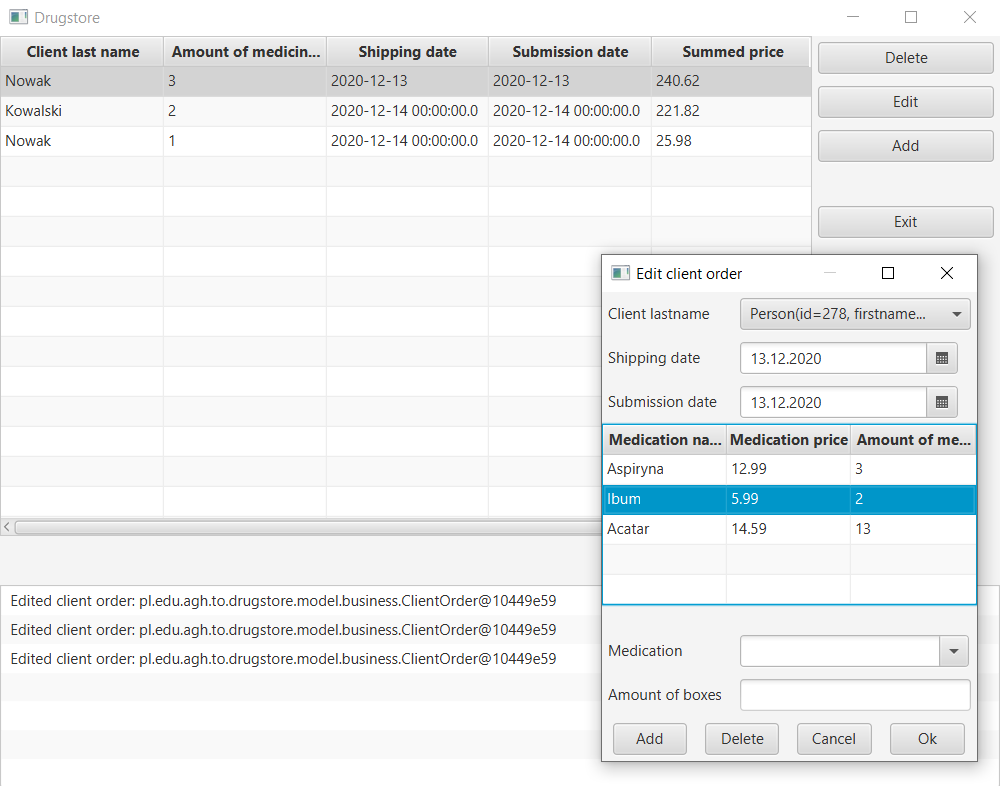
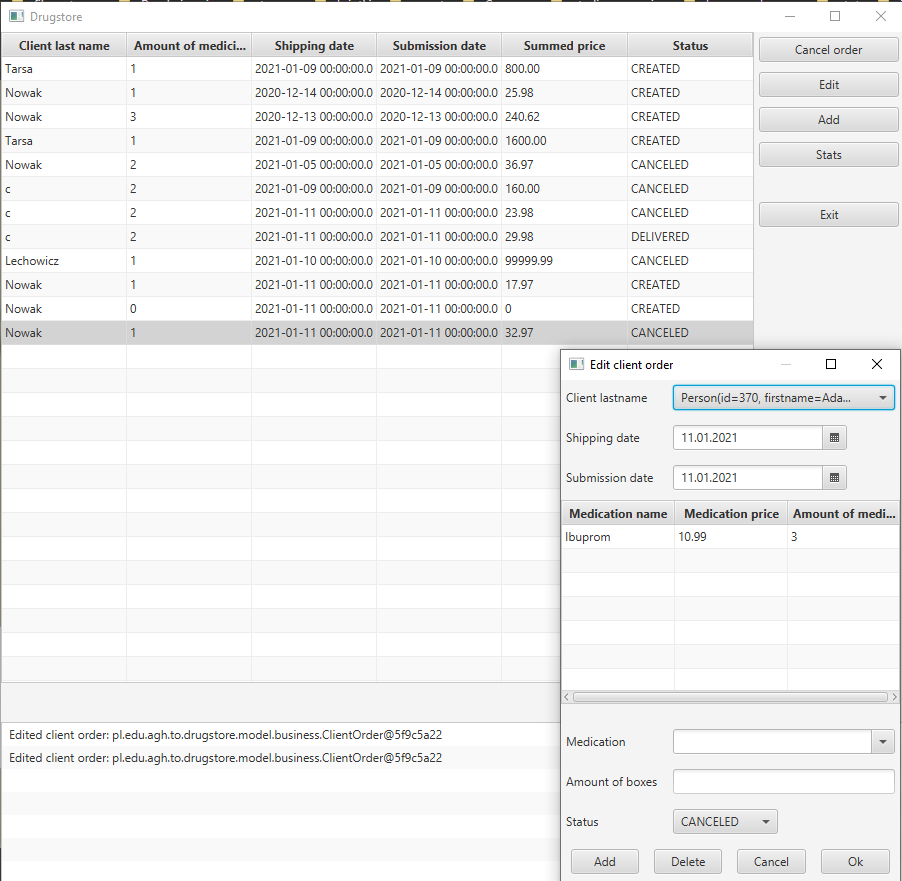
Improve and update docs

Changed region(s): [[0.0, 0.0, 1.0, 1.0], [0.0, 0.7328, 0.5588, 0.8855], [0.9623, 0.0, 0.9933, 0.0305]]

diff --git a/docs/m3/m3_12_01.md b/docs/m3/m3_12_01.md
@@ -46,10 +46,10 @@ wzorzec command w celu zarządzania operacjami w GUI.
 
 | Wiktor                                                  | Przemysław                                               | Paweł                                                        | Radosław                                                          |
 | :-------------------------------------------------      | :------------------------------------------------------- | :----------------------------------------------------------- | :---------------------------------------------------------------- |
-| Poprawa interfejsów, dodanie nowych klas abstrakcyjnych | Dodanie klas GUI wyświetlające użytkowników i lekarstwa  | Uzupełnienie modelu o dostawców i zamówienia                 | Stworzenie GUI dla ClientOrder                                    |
-| Dodanie marginesów w aplikacji                          | Dodanie okna logowania i rejestracji użytkowników        | Dodanie brakujących DAO oraz refaktoryzacja już istniejących | Stworzenie abstrakcyjnych klas dla implementacji wzorca command   |
-| Zmiany w widokach ułatwiające korzystanie z aplikacji   | Dodanie panelu administracyjnego                         | Dodanie do dokumentacji przykładowych widoków GUI            | Dodanie do dokumentacji opisów fragmentów GUI                     |
-|                                                         |                                                          |                                                              | Refaktoryzacja kodu                                               | 
+| Poprawa interfejsów, dodanie nowych klas abstrakcyjnych | Dodanie klas GUI wyświetlające użytkowników i lekarstwa  | Uzupełnienie modelu o dostawców i zamówienia                 | Stworzenie GUI dla wyświetlania statystyk                                  |
+| Dodanie marginesów w aplikacji                          | Dodanie okna logowania i rejestracji użytkowników        | Dodanie brakujących DAO oraz refaktoryzacja już istniejących | Stworzenie części kodu odpowiedzialnej za wyliczanie statystyk   |
+| Zmiany w widokach ułatwiające korzystanie z aplikacji   | Dodanie panelu administracyjnego                         | Dodanie do dokumentacji przykładowych widoków GUI            | Uzupełnienie dokumentacji o screeny                   |
+|                                                         |                                                          |                                                              |                                                                   | 
 
 #### Opis fragmentów GUI
 
@@ -81,6 +81,7 @@ odpowiednią inicjalizację. W tym oknie wyświetla się lista zamówień klient
 <ul>Modyfikacji zaznaczonego zamówienia klienta</ul>
 <ul>Dodania zamówienia </ul>
 <ul>Powrotu do głównego okna aplikacji</ul>
+<ul>Zobaczenie statystyk zamówień</ul>
 
 Po naciśnięciu przycisku odpowiadającego za dodanie zamówienia lub modyfikacji wybranego zamówienia wyświetla się nam
 nowe okno. Za to okno odpowiada klasa ClientOrderEditDialogPresenter. W tym oknie możemy:
@@ -94,6 +95,7 @@ Lek któy chcemy dodać możemy wybrać z listy, lub przefiltrować listę lekó
 Aby dodać dany lek klikamy przycisk add, aby usunąć element wybrany element klikamy przycisk Delete.
 Aby zatwierdzić zmiany klikamy Ok, aby wycofać klikamy Cancel.
 </ul>
+<ul>Zmień status zamówienia</ul>
 
 ##### Okno Medications
 
@@ -103,6 +105,7 @@ odpowiednią inicjalizację. W tym oknie wyświetla się lista leków w bazie ap
 <ul>Usunięcie zaznaczonych leków</ul>
 <ul>Modyfikacji zaznaczonego leku</ul>
 <ul>Dodania leku</ul>
+<ul>Przefiltrować dane w tabeli</ul>
 <ul>Powrotu do głównego okna aplikacji</ul>
 
 Po naciśnięciu przycisku odpowiadającego za dodanie leku lub modyfikacji wybranego leku wyświetla się nam nowe okno. Za
@@ -153,18 +156,6 @@ okno. Za to okno odpowiada klasa SupplierEditDialogPresenter. W tym oknie możem
 <ul>Wybrać nazwę dostawcy</ul>
 <ul>Wybrać number NIP dostawcy</ul>
 
-#### Plan na kolejny sprint
-
-<ul>
-    Dodanie strumieni do zarządznia danymi z bazy
-</ul>
-<ul>
-    Rozbudowa interfejsu UI
-</ul>
-<ul>
-	Dodanie mechanizmu notyfikacji w GUI  
-</ul>
-
 #### Zrzuty z obecnego etapu rozwoju aplikacji
 
 Okienko logowania:
@@ -187,6 +178,10 @@ Okno panelu lekarstw:
 
 ![Medications Screen](screens/panel_lekarstw.png)
 
+Okno panelu lekarstw filtrowanie:
+
+![Medications_filter Screen](screens/panel_lekarstw_filter.png)
+
 Okno panelu uzytkowników:
 
 ![People Screen](screens/panel_uzytkownikow.png)
@@ -194,3 +189,27 @@ Okno panelu uzytkowników:
 Okno zamówień klientów:
 
 ![ClientOrders Screen](screens/panel_zamowien_klientow.png)
+
+Okno statystyk zamówień:
+
+![Stats Screen](screens/statystyki.png)
+
+Okno panelu klienta:
+
+![Client Panel Screen](screens/panel_klienta.png)
+
+Okno panelu klienta edycja danych:
+
+![Client Edit_Panel Screen](screens/panel_klienta_edycja_danych.png)
+
+Okno panelu klienta zamowienia:
+
+![Client Edit_Panel Screen](screens/panel_klienta_zamowienia.png)
+
+Emaile z powiadomieniami:
+
+![Mail_1 Screen](screens/mail_1.png)
+
+![Mail_2 Screen](screens/mail_2.png)
+
+![Mail_3 Screen](screens/mail_3.png)
